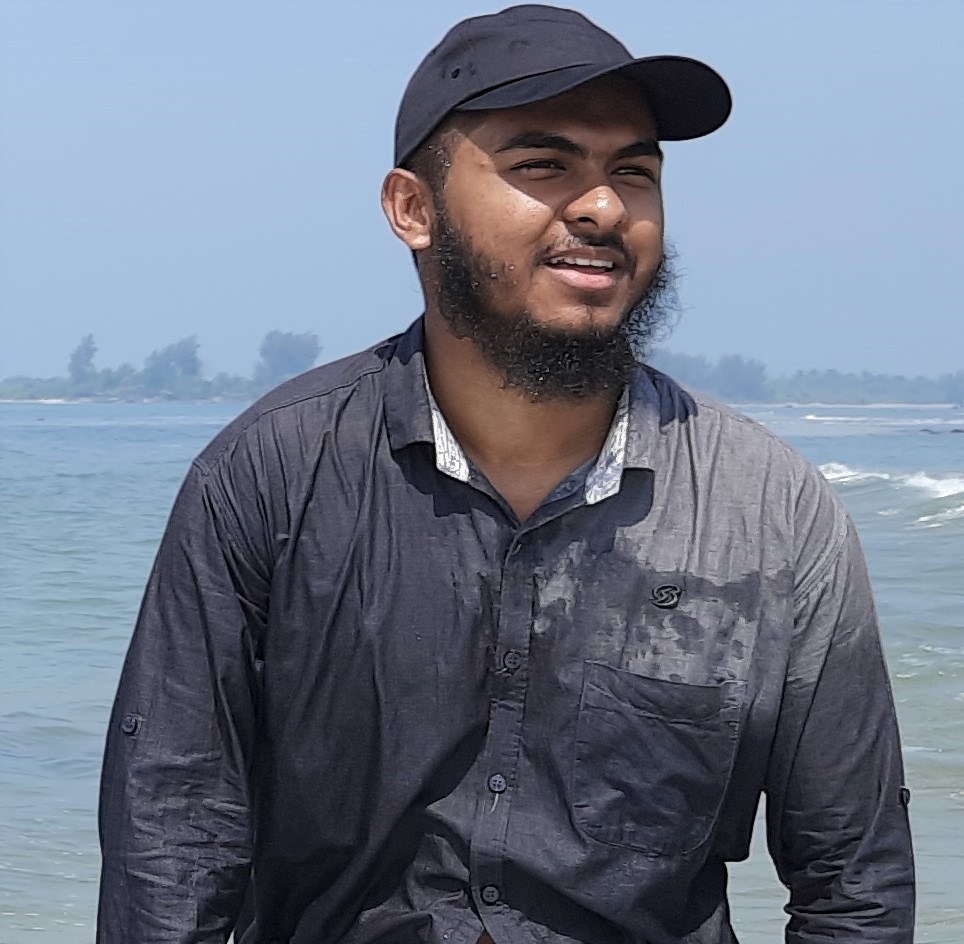
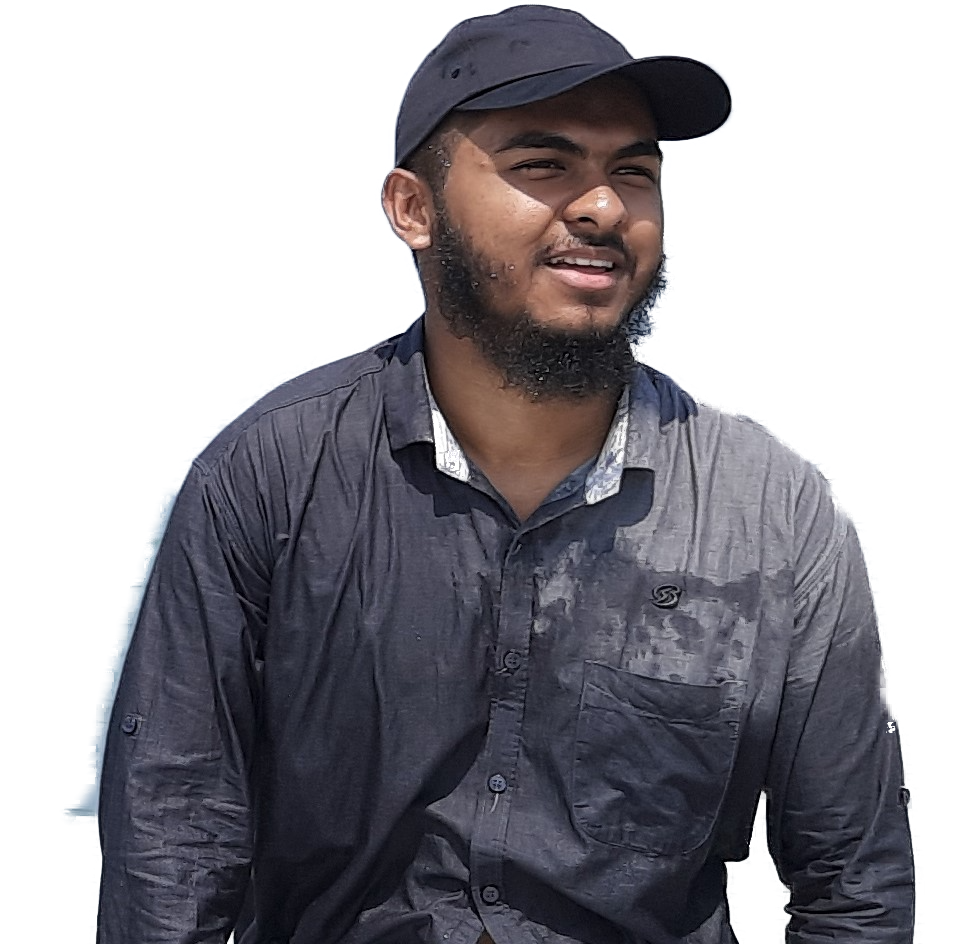
finally another website done

diff --git a/index.html b/index.html
@@ -1,0 +1,82 @@
+<!DOCTYPE html>
+<html lang="en">
+<head>
+    <meta charset="UTF-8">
+    <meta http-equiv="X-UA-Compatible" content="IE=edge">
+    <meta name="viewport" content="width=device-width, initial-scale=1.0">
+    <title>MOHAMMED ABDUR RAHMAN</title>
+    <link rel="stylesheet" href="style.css"/>
+    <link rel="preconnect" href="https://fonts.gstatic.com">
+<link href="https://fonts.googleapis.com/css2?family=Roboto&display=swap" rel="stylesheet">
+</head>
+<body>
+    <section class="intro-area">
+        <div class="hello-div">
+            <h2>Hello I'm</h2>
+            <h1><span class="name-highlight">ABDUR RAHMAN</span></h1>
+            <p>this is razu. is gonna be world best web developer
+                .this is trully revolutionary. when someone goes beyond your change.
+            </p>
+            <a class="link-button" href="#" target="_blank">HIRE ME</a>
+
+        </div>
+        <div class="hello-div">
+            <img src="images/peter.png"/>
+        </div>
+    </section>
+    <section class="biography-area">
+        <div class="biography-div">
+            <img src="images/peter_dream.png"/>
+
+        </div>
+        <div class="biography-div">
+            <h2>Biography</h2>
+            <p>Lorem ipsum dolor sit amet, consectetur adipisicing elit. Maiores laboriosam neque illum aspernatur asperiores, quas a voluptas libero id animi nam necessitatibus! Necessitatibus velit et asperiores fuga facilis fugiat, dolorem ipsa! Ipsam unde non, necessitatibus adipisci fugit odit possimus sed, eius deleniti dolore omnis nemo et quod, dolor modi totam.</p>
+            <a class="link-button" href="#" target="_blank">DOWNLOAD RESUME</a>
+
+
+        </div>
+    </section>
+    <section class="work-area">
+        <h2>My Latest Work</h2>
+        <div class="latest-work">
+            <img src="images/work-1.png"/>
+
+
+        </div>
+        <div class="latest-work">
+            <img src="images/work-2.jpg"/>
+            
+        </div>
+        <div class="latest-work">
+            <img src="images/work-3.jpg"/>
+
+        </div>
+    </section>
+    <section class="client-area">
+    
+        <div class="client-div">
+            <h2>What client are say</h2>
+            <h3>Bruce moccy</h3>
+            <h6>Founder and CEO Alies</h6>
+            <p>Lorem ipsum dolor sit amet consectetur adipisicing elit. Est eos maiores veniam cumque eligendi quisquam nulla alias obcaecati. Temporibus illum architecto possimus aspernatur! Sit, impedit.</p>
+
+
+        </div>
+        <div class="email-div">
+            <p>Leave me a message on this email</p>
+            <h4>abdurrahmanrazu2000@gmail.com</h4>
+        </div>
+        
+            
+    </section>
+    <footer>
+    <p>
+        shahada24.com;2021,All rights reserved
+    </p>
+
+</footer>
+    
+    
+</body>
+</html>

diff --git a/style.css b/style.css
@@ -1,0 +1,108 @@
+body{
+    margin: 0;
+    font-family: 'Roboto', sans-serif;
+}
+.name-highlight{
+    color: rgb(248, 9, 188);
+}
+h1{
+    font-size: 50px;
+}
+.hello-div{
+    width: 38%;
+    float: left;
+    
+    
+
+}
+.hello-div img{
+    width: 95%;
+}
+.link-button{
+    text-decoration: none;
+    background: linear-gradient(tomato,red);
+    color: white;
+    padding: 10px;
+
+}
+h2{
+    font-size: 35px;
+}
+h1{
+    font-size: 47px;
+}
+.intro-area{
+    background-image: url("images/header-bg.png");
+    background-repeat: no-repeat;
+    background-position:left;
+    height: 500px;
+}
+section{
+    margin-bottom: 100px;
+    margin-left: 100px;
+}
+.biography-div{
+    width: 40%;
+    float: left;
+    
+}
+.biography-div img{
+    width: 75%;
+}
+.biography-area{
+    background-image: url("images/biography-bg.png");
+    background-repeat: no-repeat;
+    height: 600px;
+}
+.work-area h2{
+    text-align: center;
+}
+.work-area{
+    height: 400px;
+    margin-left: 50px;
+    background-image: url("images/latest-work-bg.png");
+    background-repeat: no-repeat;
+    
+}
+.latest-work{
+    width:27%;
+    float: left;
+
+
+}
+.latest-work img{
+    width: 100%;
+}
+.client-area{
+    background-image: url("images/footer-bg.png");
+    background-repeat: no-repeat;
+    background-position: left;
+    height: 500px;
+
+
+}
+.client-div h2{
+    text-align: center;
+}
+.client-div h3{
+    text-align: center;
+}
+.client-div h6{
+    text-align: center;
+}
+.client-div p{
+    text-align: center;
+}
+.email-div{
+    width: 30%;
+    height: 15%;
+    background-color: rgb(252, 11, 160);
+   margin: auto;
+   text-align: center;
+   padding: 23px;
+   color: white;
+    
+}
+footer p{
+    text-align: center;
+}
